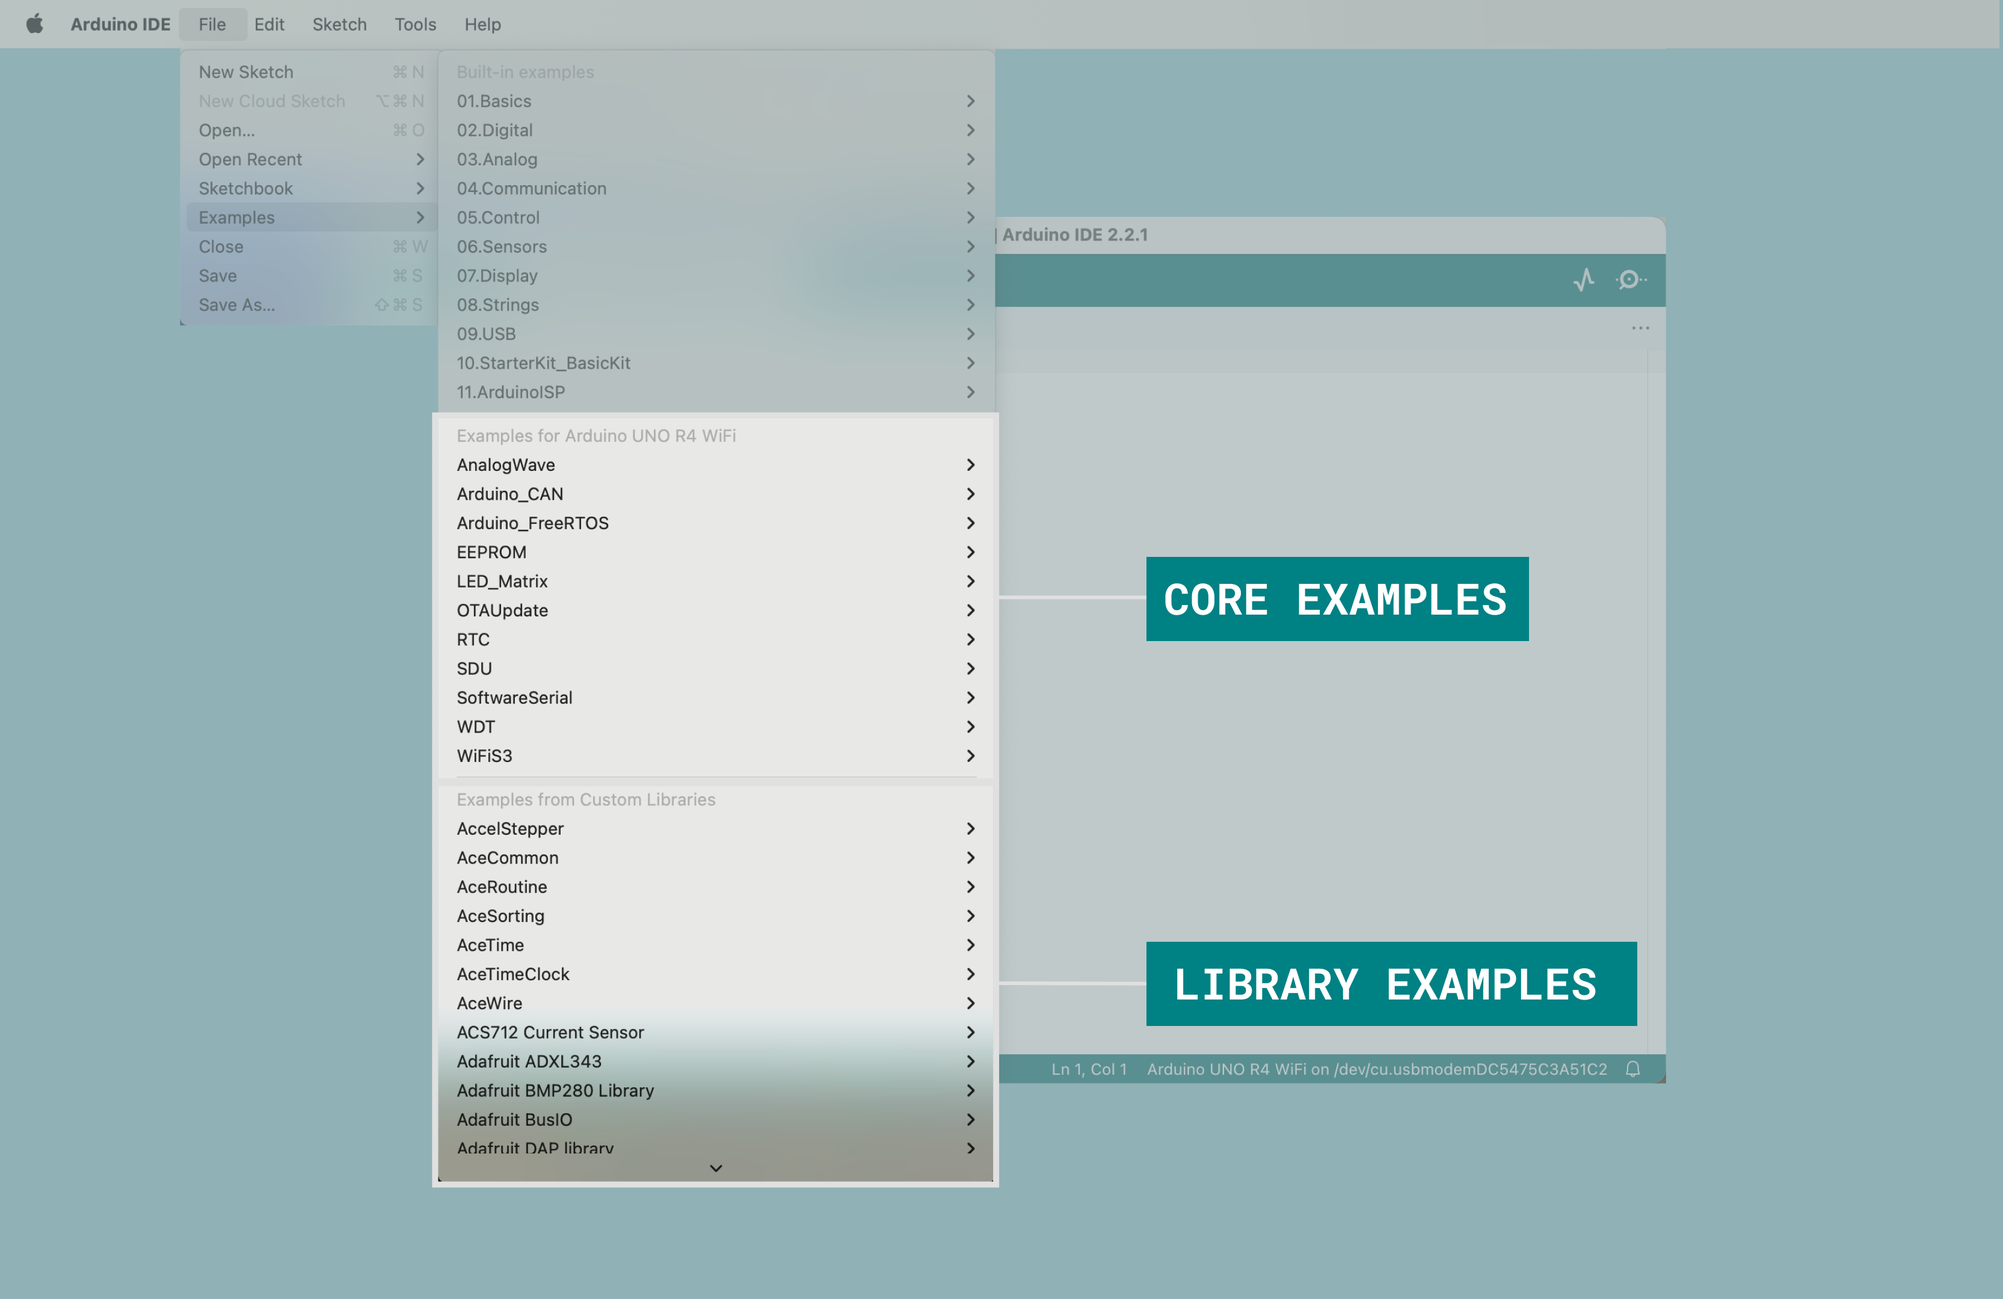
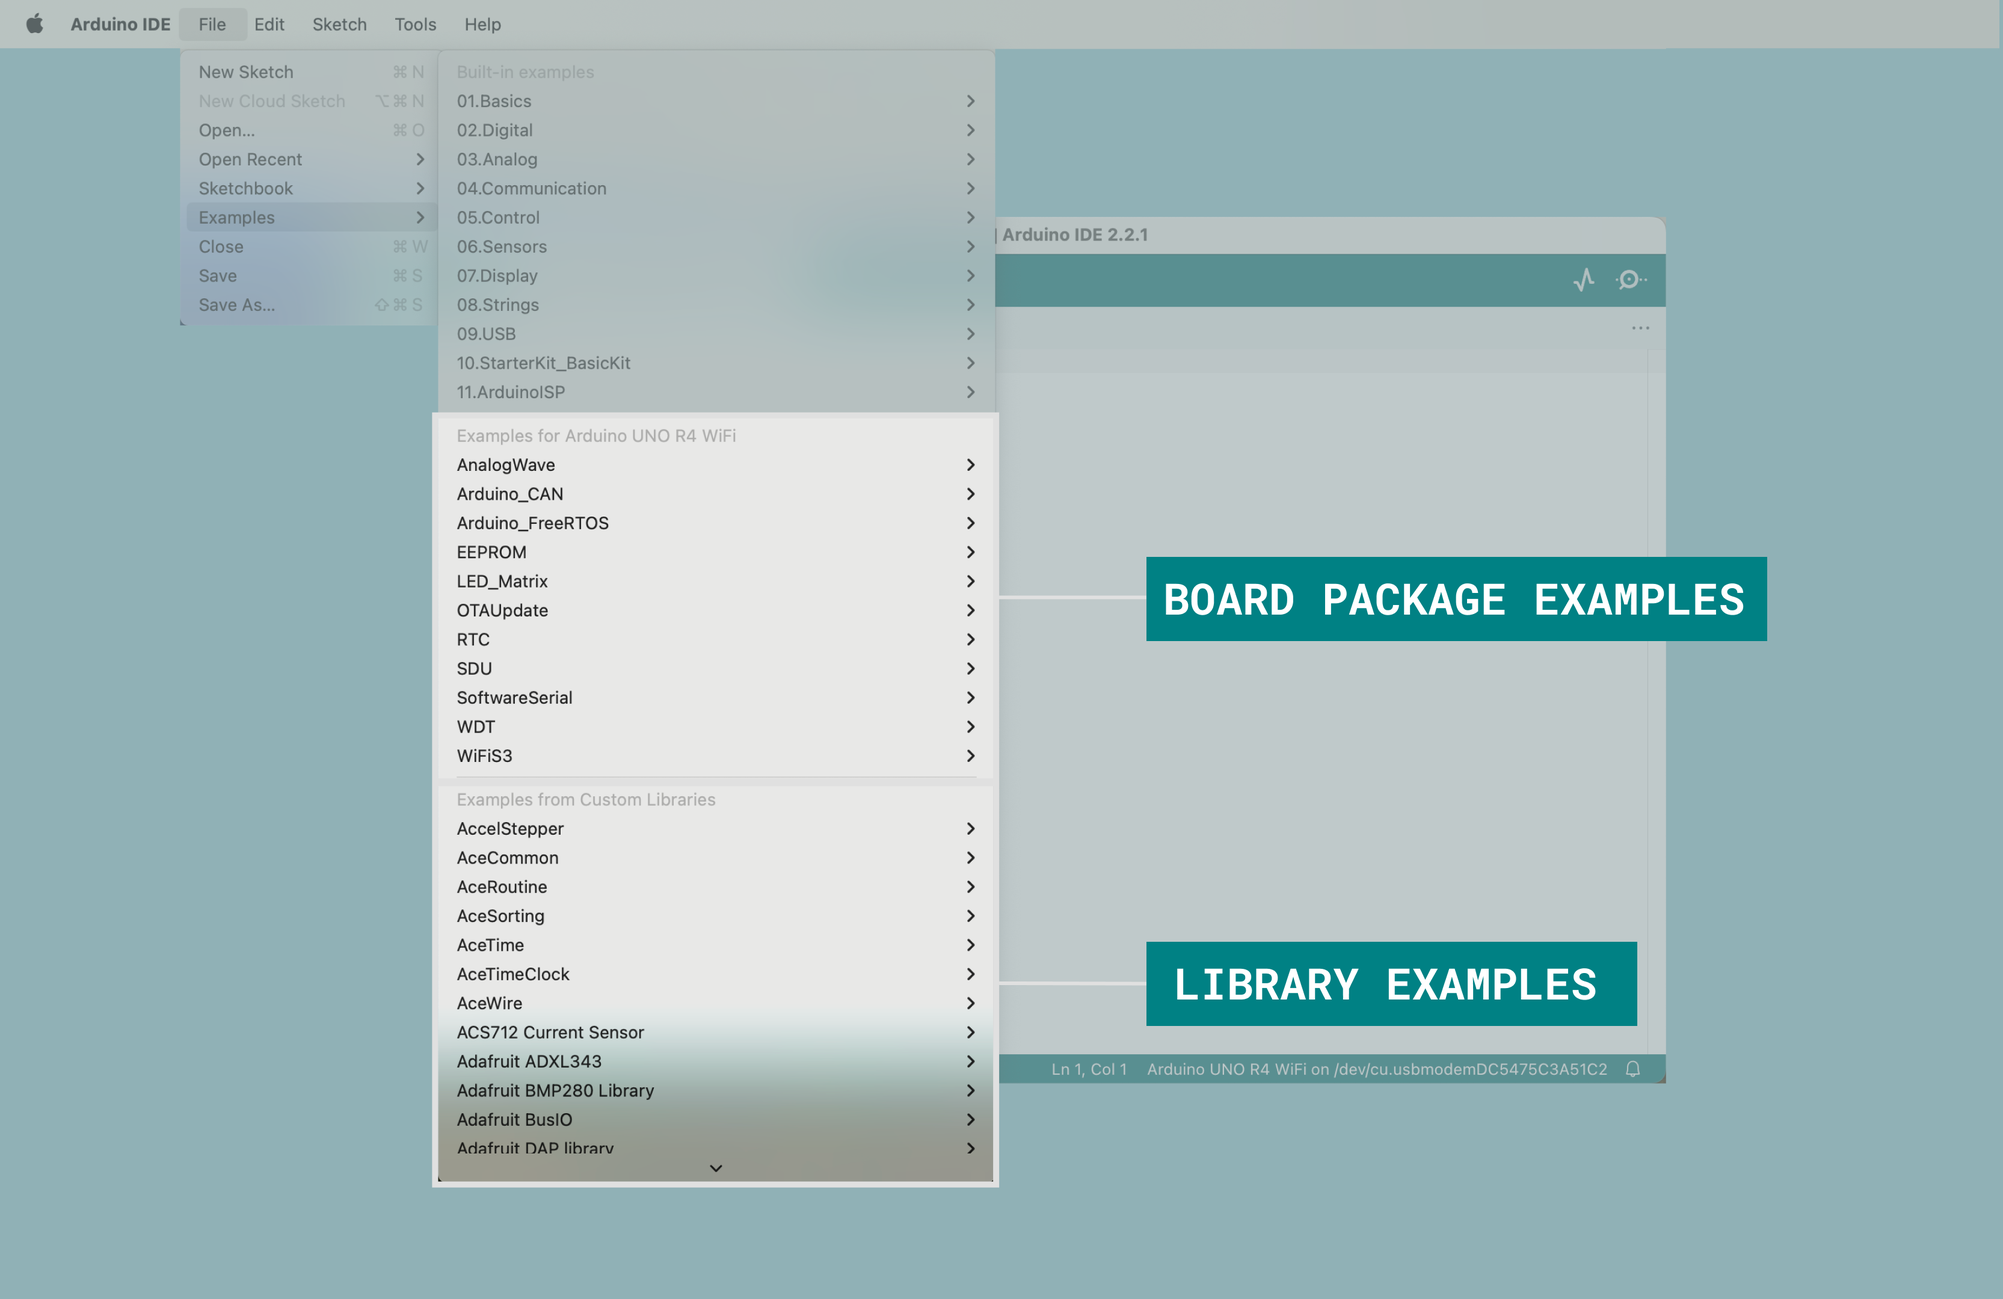
IDE docs

Changed region(s): [[0.5934, 0.4032, 0.9057, 0.4963]]

diff --git a/content/software/ide-v2/tutorials/02.ide-v2-board-manager/ide-v2-board-manager.md b/content/software/ide-v2/tutorials/02.ide-v2-board-manager/ide-v2-board-manager.md
@@ -1,5 +1,5 @@
 ---
-title: 'Installing a Core in the IDE 2'
+title: 'Installing a Board Package in the IDE 2'
 difficulty: beginner
 description: 'Learn how the new board manager tool works, and how to easily install the boards you want to use in the Arduino IDE 2.'
 tags:
@@ -8,7 +8,7 @@ tags:
 author: 'Karl Söderby & Jacob Hylén'
 ---
 
-The board manager is a great tool for installing the necessary cores to use your Arduino boards. In this quick tutorial, we will take a look at how to install one, and choosing the right core for your board! 
+The board manager is a great tool for installing the necessary board packages to use your Arduino boards. In this quick tutorial, we will take a look at how to install one, and choosing the right package for your board! 
 
 You can easily download the editor from the [Arduino Software page](https://www.arduino.cc/en/software). 
 
@@ -20,19 +20,19 @@ You can also follow the [downloading and installing the Arduino IDE 2](/software
 
 ## Why Use the Board Manager?
 
-The board manager is a tool that is used to install different cores on your local computer. So what is a **core**, and why is it necessary that I install one?
+The board manager is a tool that is used to install different board packages on your local computer. So what is a **board package**, and why is it necessary that I install one?
 
-Simply explained, a core is written and designed for specific microcontrollers. Arduino offers several different types of boards, and these boards may also have different types of microcontrollers. While different microcontrollers accomplish tasks in similar ways, the way code is compiled, pins are mapped, and what features are available is tailor-made to the silicon itself, meaning that this will also be microcontroller-specific. 
+Simply explained, a board package is written and designed for specific microcontrollers. Arduino offers several different types of boards, and these boards may also have different types of microcontrollers. While different microcontrollers accomplish tasks in similar ways, the way code is compiled, pins are mapped, and what features are available is tailor-made to the silicon itself, meaning that this will also be microcontroller-specific. 
 
-What a core does is to act as a layer between all of this microcontroller-specific jargon, and you - the maker. The core translates it into the Arduino API you are already familiar with so that you can program any of the microcontrollers in the Arduino ecosystem in the same way.
+What a board package does is to act as a layer between all of this microcontroller-specific jargon, and you - the maker. The board package translates it into the Arduino API you are already familiar with so that you can program any of the microcontrollers in the Arduino ecosystem in the same way.
 
-For example, an Arduino UNO has an **ATmega328P**, which uses the **AVR core**, while an Arduino Nano 33 IoT has a **SAMD21** microcontroller, where we need to use the **SAMD core**. However, regardless of what microcontroller is on the board we are using, `digitalWrite(LED_BUILTIN, HIGH)` will turn on the built-in LED, and `analogRead(A0)` will read the analog pin 0 and check for a voltage.
+For example, an Arduino UNO has an **ATmega328P**, which uses the **AVR package**, while an Arduino Nano 33 IoT has a **SAMD21** microcontroller, where we need to use the **SAMD package**. However, regardless of what microcontroller is on the board we are using, `digitalWrite(LED_BUILTIN, HIGH)` will turn on the built-in LED, and `analogRead(A0)` will read the analog pin 0 and check for a voltage.
 
-In conclusion, to use a specific board, we need to install a specific core. 
+In conclusion, to use a specific board, we need to install a specific board package. 
 
-## Installing a Core
+## Installing a Board Package
 
-Installing a core is quick and easy, but let's take a look at what we need to do. 
+Installing a board package is quick and easy, but let's take a look at what we need to do. 
 
 **1.** Open the Arduino IDE 2. 
 
@@ -40,7 +40,7 @@ Installing a core is quick and easy, but let's take a look at what we need to do
 
 ![The board manager.](assets/installing-a-core-img01.png)
 
-**3.** A list will now appear of all available cores. Now let's say we are using an **Nano 33 BLE** board, and we want to install the core. Simply enter the name in the search field, and the right core (Mbed OS Nano) will appear, where the Nano 33 BLE features in the description. Click on the **"INSTALL"** button.
+**3.** A list will now appear of all available packages. Now let's say we are using an **Nano 33 BLE** board, and we want to install the board package. Simply enter the name in the search field, and the right package (Mbed OS Nano) will appear, where the Nano 33 BLE features in the description. Click on the **"INSTALL"** button.
 
 ![Navigating the board manager.](assets/installing-a-core-img02.png)
 
@@ -52,7 +52,7 @@ Installing a core is quick and easy, but let's take a look at what we need to do
 
 ![Board is installed.](assets/installing-a-core-img04.png)
 
-Congratulations! You have now successfully downloaded and installed a core on your machine, and you can start using your Arduino board! 
+Congratulations! You have now successfully downloaded and installed a board package on your machine, and you can start using your Arduino board! 
 
 ### Changing version
 
@@ -77,13 +77,13 @@ And that should be it!
 To make sure that the process was successful, cross check what version is installed by looking at this little tag right underneath the package name.
 ![Boards manager](./assets/installing-a-core-img08.png)
 
-## What Core Should I Install?
+## What Board Package Should I Install?
 
-Do you have an Arduino board in your hands, but are not sure what core you need to install? When you plug a board in to your computer, and you don't have the appropriate core installed, the IDE should automatically prompt you to install it. But, in case you need it anyways, you can find a list of boards and the core packages they belong to below:
+Do you have an Arduino board in your hands, but are not sure what board package you need to install? When you plug a board in to your computer, and you don't have the appropriate board package installed, the IDE should automatically prompt you to install it. But, in case you need it anyways, you can find a list of boards and the board packages they belong to below:
 
 ### AVR
 
-The **AVR Boards** package is based on the **Arduino AVR Core**, and includes the following boards:
+The **AVR boards package** is based on the **Arduino AVR Core**, and includes the following boards:
 
 - [UNO R3](/hardware/uno-rev3)
 - [UNO R3 SMD](/hardware/uno-rev3-smd)
@@ -93,7 +93,7 @@ The **AVR Boards** package is based on the **Arduino AVR Core**, and includes th
 - [Nano](/hardware/nano)
 - [Mega 2560](/hardware/mega-2560)
 
-The **AVR core** comes pre-installed when you download the Arduino IDE, so if you have one of these boards - Great! You're already done and won't need to install it yourself. You can, however, still find it in the board manager if you want to change what version of the core you have installed. For detailed instructions on how to do this, [follow the steps above](#installing-a-core).
+The **AVR board package** comes pre-installed when you download the Arduino IDE, so if you have one of these boards - Great! You're already done and won't need to install it yourself. You can, however, still find it in the board manager if you want to change what version of the board package you have installed. For detailed instructions on how to do this, [follow the steps above](#installing-a-board-package).
 
 For source code and reporting issues, please visit the official GitHub repository:
 
@@ -106,7 +106,7 @@ The **MegaAVR Boards package** is based on the **Arduino AVR Core**, and include
 - [UNO WiFi Rev2](/hardware/uno-wifi-rev2)
 - [Nano Every](/hardware/nano-every)
 
-You can install this package in the board manager by searching for "**Arduino MegaAVR Boards**". For detailed instructions, see the [Installing a Core section](#installing-a-core).
+You can install this package in the board manager by searching for "**Arduino MegaAVR Boards**". For detailed instructions, see the [Installing a Board Package section](#installing-a-board-package).
 
 For source code and reporting issues, please visit the official GitHub repository:
 
@@ -119,7 +119,7 @@ The **UNO R4 Boards** package is based on the **Arduino Renesas Core**, and incl
 - [UNO R4 Minima](/hardware/uno-r4-minima)
 - [UNO R4 WiFi](/hardware/uno-r4-wifi)
 
-You can install this package in the board manager by searching for "**Arduino UNO R4 Boards**". For detailed instructions, see the [Installing a Core section](#installing-a-core).
+You can install this package in the board manager by searching for "**Arduino UNO R4 Boards**". For detailed instructions, see the [Installing a Board Package section](#installing-a-board-package).
 
 For source code and reporting issues, please visit the official GitHub repository:
 
@@ -131,7 +131,7 @@ The **SAM Boards** package is based on the **Arduino SAM Core**, and includes th
 
 - [Due](/hardware/due)
 
-You can install this package in the board manager by searching for "**Arduino SAM Boards**". For detailed instructions, see the [Installing a Core section](#installing-a-core).
+You can install this package in the board manager by searching for "**Arduino SAM Boards**". For detailed instructions, see the [Installing a Board Package section](#installing-a-board-package).
 
 For source code and reporting issues, please visit the official GitHub repository:
 
@@ -154,7 +154,7 @@ The **SAMD Boards** package is based on the **Arduino SAMD Core**, and includes 
 - [MKR Vidor 4000](/hardware/mkr-vidor-4000)
 
 
-You can install this package in the board manager by searching for "**Arduino SAMD Boards**". For detailed instructions, see the [Installing a Core section](#installing-a-core).
+You can install this package in the board manager by searching for "**Arduino SAMD Boards**". For detailed instructions, see the [Installing a Board Package section](#installing-a-board-package).
 
 For source code and reporting issues, please visit the official GitHub repository:
 
@@ -166,7 +166,7 @@ The **Mbed OS GIGA Boards** package is based on the **Arduino Mbed Core**, and i
 
 - [GIGA R1 WiFi](/hardware/giga-r1-wifi)
 
-You can install this package in the board manager by searching for "**Arduino Mbed OS GIGA Boards**". For detailed instructions, see the [Installing a Core section](#installing-a-core).
+You can install this package in the board manager by searching for "**Arduino Mbed OS GIGA Boards**". For detailed instructions, see the [Installing a Board Package section](#installing-a-board-package).
 
 For source code and reporting issues, please visit the official GitHub repository:
 
@@ -181,7 +181,7 @@ The **Mbed OS Nano Boards** package is based on the **Arduino Mbed Core**, and i
 - [Nano 33 BLE Sense](/hardware/nano-33-ble-sense)
 - [Nano 33 BLE Sense Rev2](/hardware/nano-33-ble-sense-rev2)
 
-You can install this package in the board manager by searching for "**Arduino Mbed OS Nano Boards**". For detailed instructions, see the [Installing a Core section](#installing-a-core).
+You can install this package in the board manager by searching for "**Arduino Mbed OS Nano Boards**". For detailed instructions, see the [Installing a Board Package section](#installing-a-board-package).
 
 For source code and reporting issues, please visit the official GitHub repository:
 
@@ -196,7 +196,7 @@ The **Mbed OS Portenta Boards** package is based on the **Arduino Mbed Core**, a
 - [Portenta H7-lite-connected](/hardware/portenta-h7-lite-connected)
 - [Portenta X8](/hardware/portenta-x8)
 
-You can install this package in the board manager by searching for "**Arduino Mbed OS Portenta Boards**". For detailed instructions, see the [Installing a Core section](#installing-a-core).
+You can install this package in the board manager by searching for "**Arduino Mbed OS Portenta Boards**". For detailed instructions, see the [Installing a Board Package section](#installing-a-board-package).
 
 For source code and reporting issues, please visit the official GitHub repository:
 
@@ -210,7 +210,7 @@ The **Mbed OS Nicla Boards** package is based on the **Arduino Mbed Core**, and 
 - [Nicla Vision](/hardware/nicla-vision)
 - [Nicla Voice](/hardware/nicla-voice)
 
-You can install this package in the board manager by searching for "**Arduino Mbed OS Nicla Boards**". For detailed instructions, see the [Installing a Core section](#installing-a-core).
+You can install this package in the board manager by searching for "**Arduino Mbed OS Nicla Boards**". For detailed instructions, see the [Installing a Board Package section](#installing-a-board-package).
 
 For source code and reporting issues, please visit the official GitHub repository:
 
@@ -222,7 +222,7 @@ The **Mbed OS Edge Boards** package is based on the **Arduino Mbed Core**, and i
 
 - [Edge Control](/hardware/edge-control)
 
-You can install this package in the board manager by searching for "**Arduino Mbed OS Edge Boards**". For detailed instructions, see the [Installing a Core section](#installing-a-core).
+You can install this package in the board manager by searching for "**Arduino Mbed OS Edge Boards**". For detailed instructions, see the [Installing a Board Package section](#installing-a-board-package).
 
 For source code and reporting issues, please visit the official GitHub repository:
 
@@ -234,7 +234,7 @@ The **Renesas Portenta Boards** package is based on the **Arduino Renesas Core**
 
 - [Portenta C33](/hardware/portenta-c33)
 
-You can install this package in the board manager by searching for "**Arduino Renesas Portenta Boards**". For detailed instructions, see the [Installing a Core section](#installing-a-core).
+You can install this package in the board manager by searching for "**Arduino Renesas Portenta Boards**". For detailed instructions, see the [Installing a Board Package section](#installing-a-board-package).
 
 For source code and reporting issues, please visit the official GitHub repository:
 
@@ -242,11 +242,11 @@ For source code and reporting issues, please visit the official GitHub repositor
 
 ### ESP32
 
-The **ESP32 Boards** package is based on the **Arduino-esp32 core**, and includes the following boards:
+The **ESP32 Boards** package is based on the **Arduino-esp32 Core**, and includes the following boards:
 
 - [Nano ESP32](/hardware/nano-esp32)
 
-You can install this package in the board manager by searching for "**Arduino ESP32 Boards**". For detailed instructions, see the [Installing a Core section](#installing-a-core).
+You can install this package in the board manager by searching for "**Arduino ESP32 Boards**". For detailed instructions, see the [Installing a Board Package section](#installing-a-board-package).
 
 For source code and reporting issues, please visit the official GitHub repository:
 

diff --git a/content/software/ide-v2/tutorials/01.getting-started-ide-v2/ide-v2-autocomplete-feature.md b/content/software/ide-v2/tutorials/01.getting-started-ide-v2/ide-v2-autocomplete-feature.md
@@ -55,9 +55,9 @@ To access your sketchbook, click on the **folder icon** located in the sidebar.
 
 ![Boards Manager.](assets/board-manager.png)
 
-With the Boards Manager, you can browse and install packages, or "cores" for your boards. A core is always required when compiling and uploading code for your board.
+With the Boards Manager, you can browse and install board packages. A board package contains the "instructions" for compiling your code to the boards that are included in the board package.
 
-There are several Arduino cores available, such as **avr, samd, megaavr** and more.
+There are several Arduino board packages available, such as **avr, samd, megaavr** and more.
 
 ***To learn more about the Boards Manager, visit the [Installing new boards tutorial](/software/ide-v2/tutorials/ide-v2-board-manager).***
 
@@ -97,7 +97,7 @@ An important part of the Arduino Documentation are the example sketches that com
 
 Libraries that come bundled as a part of a boards package may also include libraries, and those libraries often include example sketches.
 
-To open the example sketches bundled in either the libraries you have installed manually or that come bundled in core packages, navigate to **File > Examples** and find the library you're searching for in the list that appears.
+To open the example sketches bundled in either the libraries you have installed manually or that come bundled in board packages, navigate to **File > Examples** and find the library you're searching for in the list that appears.
 
 ![Example sketches](./assets/examplesketches.png)
 

diff --git a/content/software/ide-v2/tutorials/ide-v2-serial-monitor/ide-v2-serial-monitor.md b/content/software/ide-v2/tutorials/ide-v2-serial-monitor/ide-v2-serial-monitor.md
@@ -20,7 +20,7 @@ You can also follow the [downloading and installing the Arduino IDE 2](/software
 
 - Arduino IDE 2 installed. 
 - Arduino board.
-- Core installed for the board used.
+- Board package installed for the board used.
 
 ## Notable Changes
 
@@ -86,7 +86,7 @@ This is really useful when working with various communication / connectivity pro
 
 ![Open a new sketch.](assets/serial-monitor-img04.png)
 
-**2.** Now, we need to choose another board. In this example, we are using an **Arduino Nano 33 IoT**. If you have connected it to your computer and installed the necessary core for it, it will show up in the board list.
+**2.** Now, we need to choose another board. In this example, we are using an **Arduino Nano 33 IoT**. If you have connected it to your computer and installed the necessary board package for it, it will show up in the board list.
 
 ![List of available boards.](assets/serial-monitor-img05.png)
 

diff --git a/content/software/ide-v2/tutorials/ide-v2-serial-plotter/ide-v2-serial-plotter.md b/content/software/ide-v2/tutorials/ide-v2-serial-plotter/ide-v2-serial-plotter.md
@@ -19,7 +19,7 @@ In this tutorial, we will take a quick look on how to enable this feature (works
 ## Requirements
 
 - [Arduino IDE 2 installed](https://www.arduino.cc/en/software).
-- [Core installed](/software/ide-v2/tutorials/ide-v2-board-manager) for the board used.
+- [Board package installed](/software/ide-v2/tutorials/ide-v2-board-manager) for the board used.
 - Arduino board.
 - Potentiometer (optional).
 
